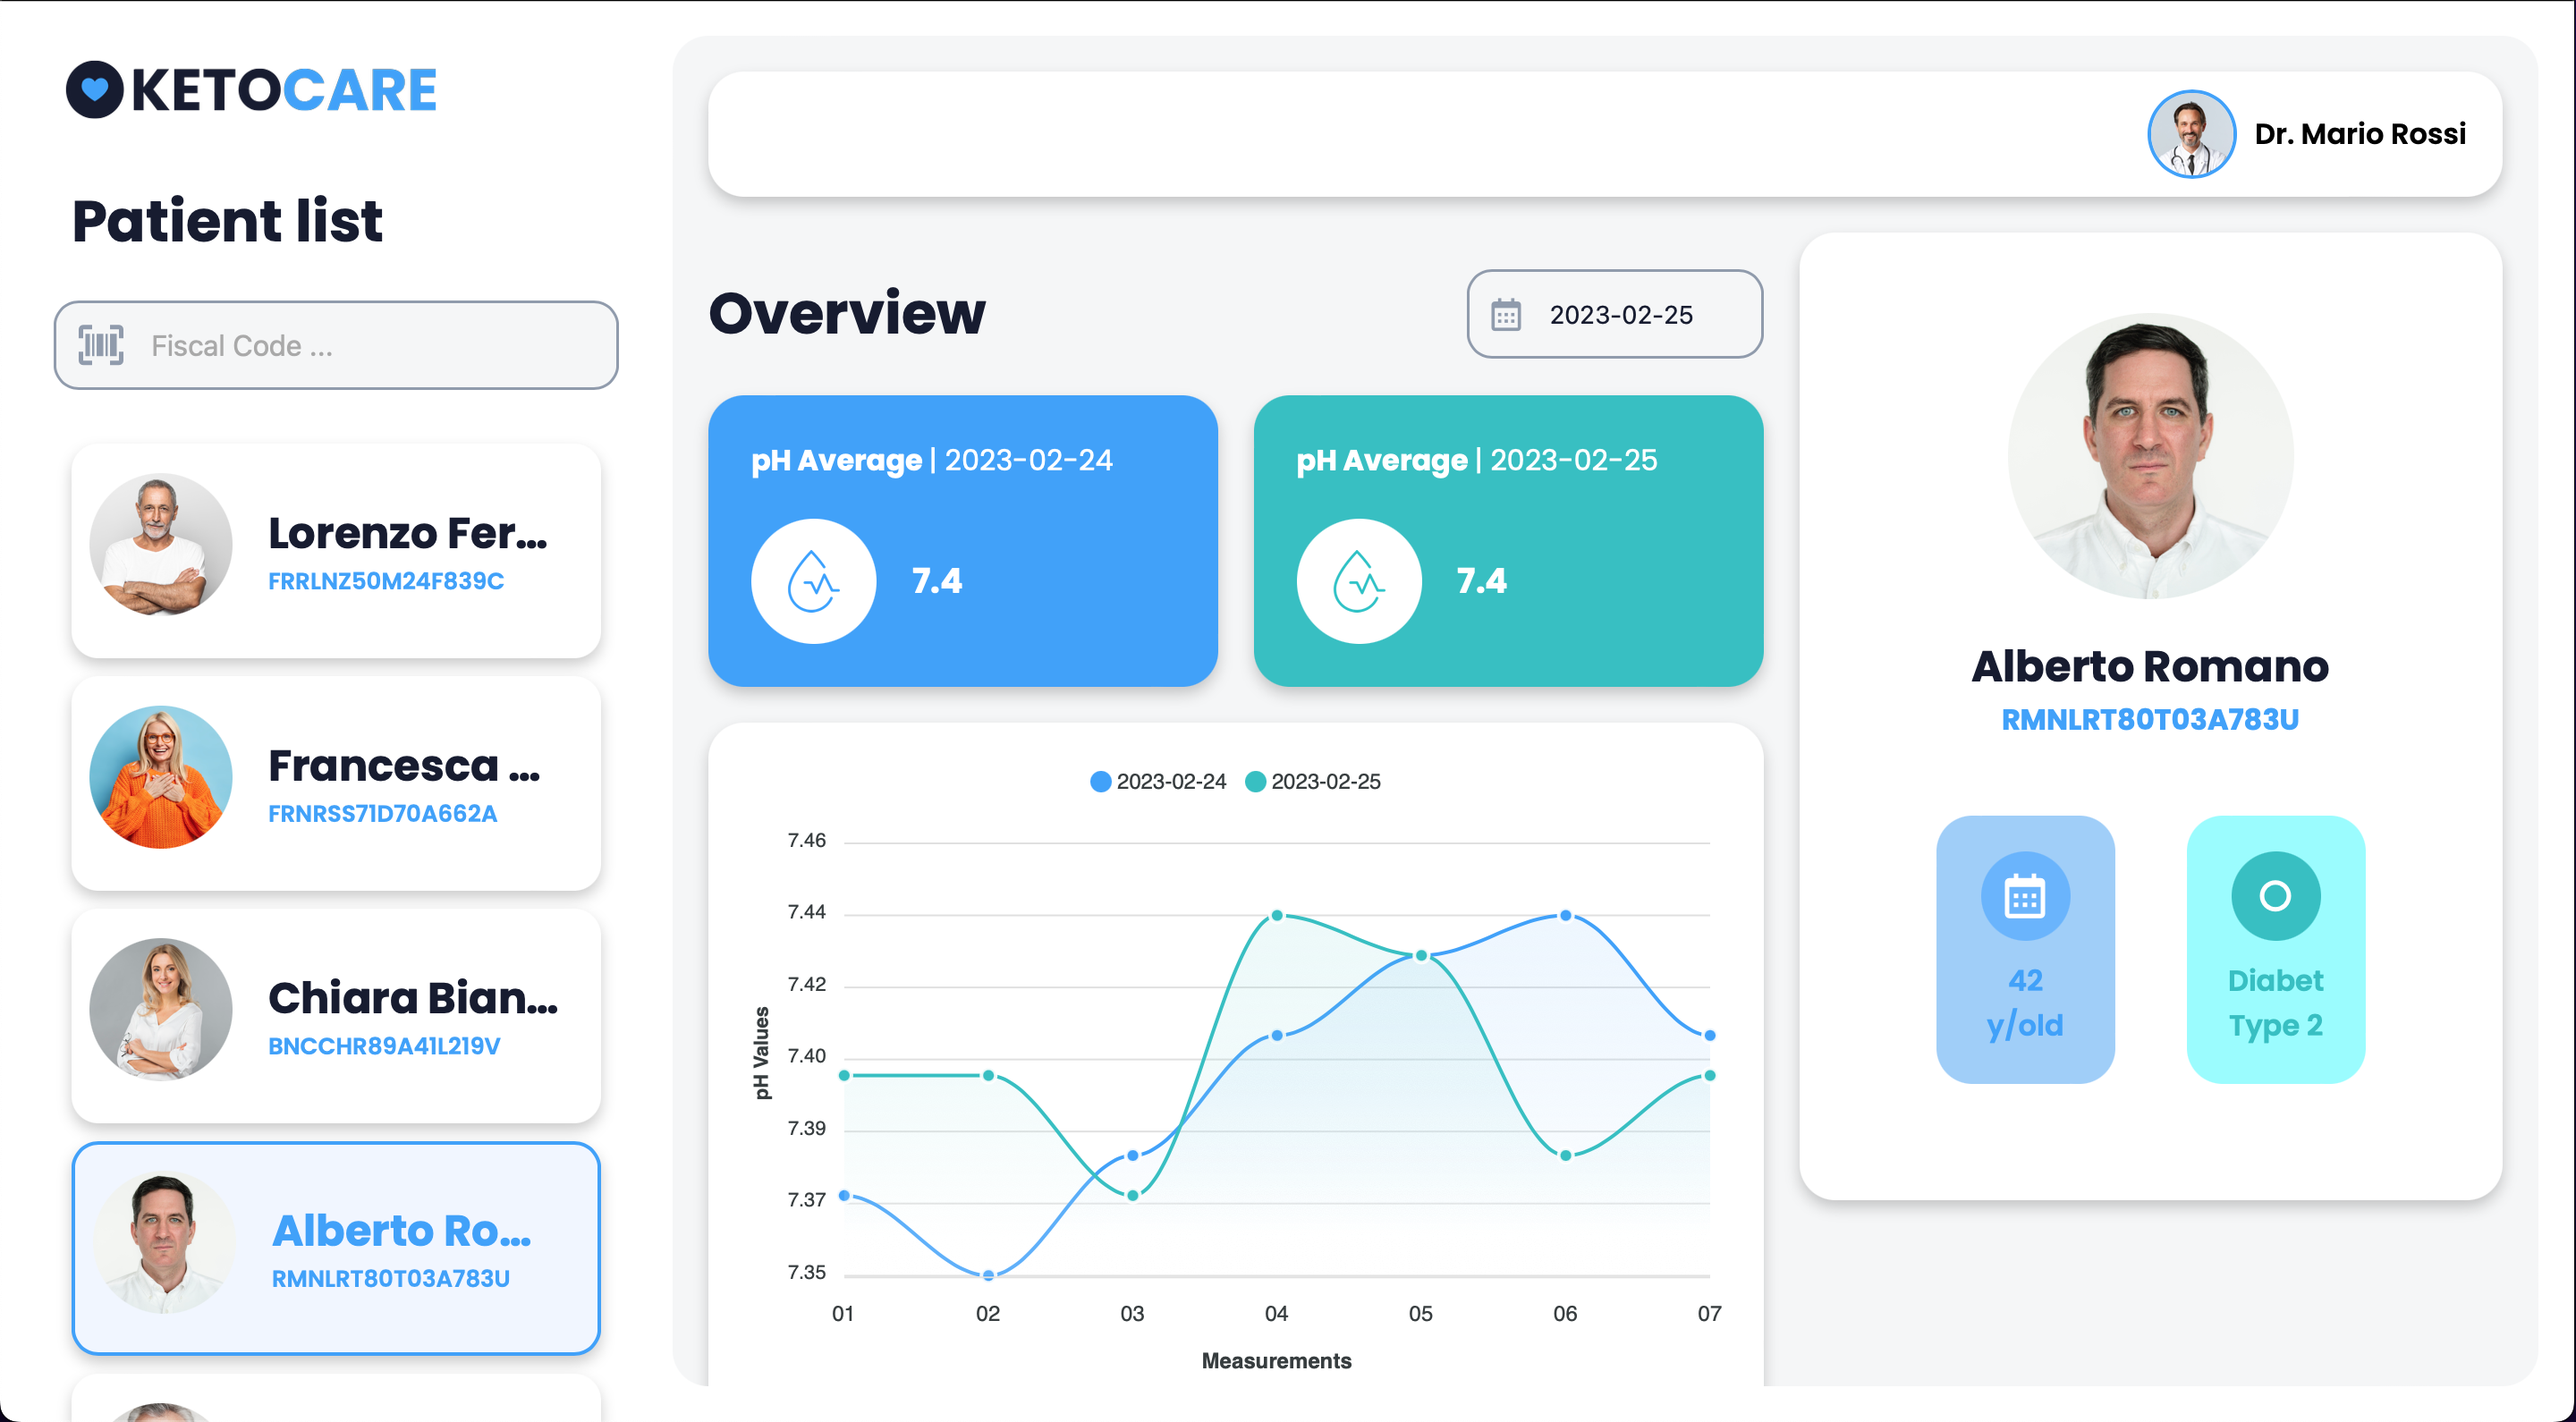
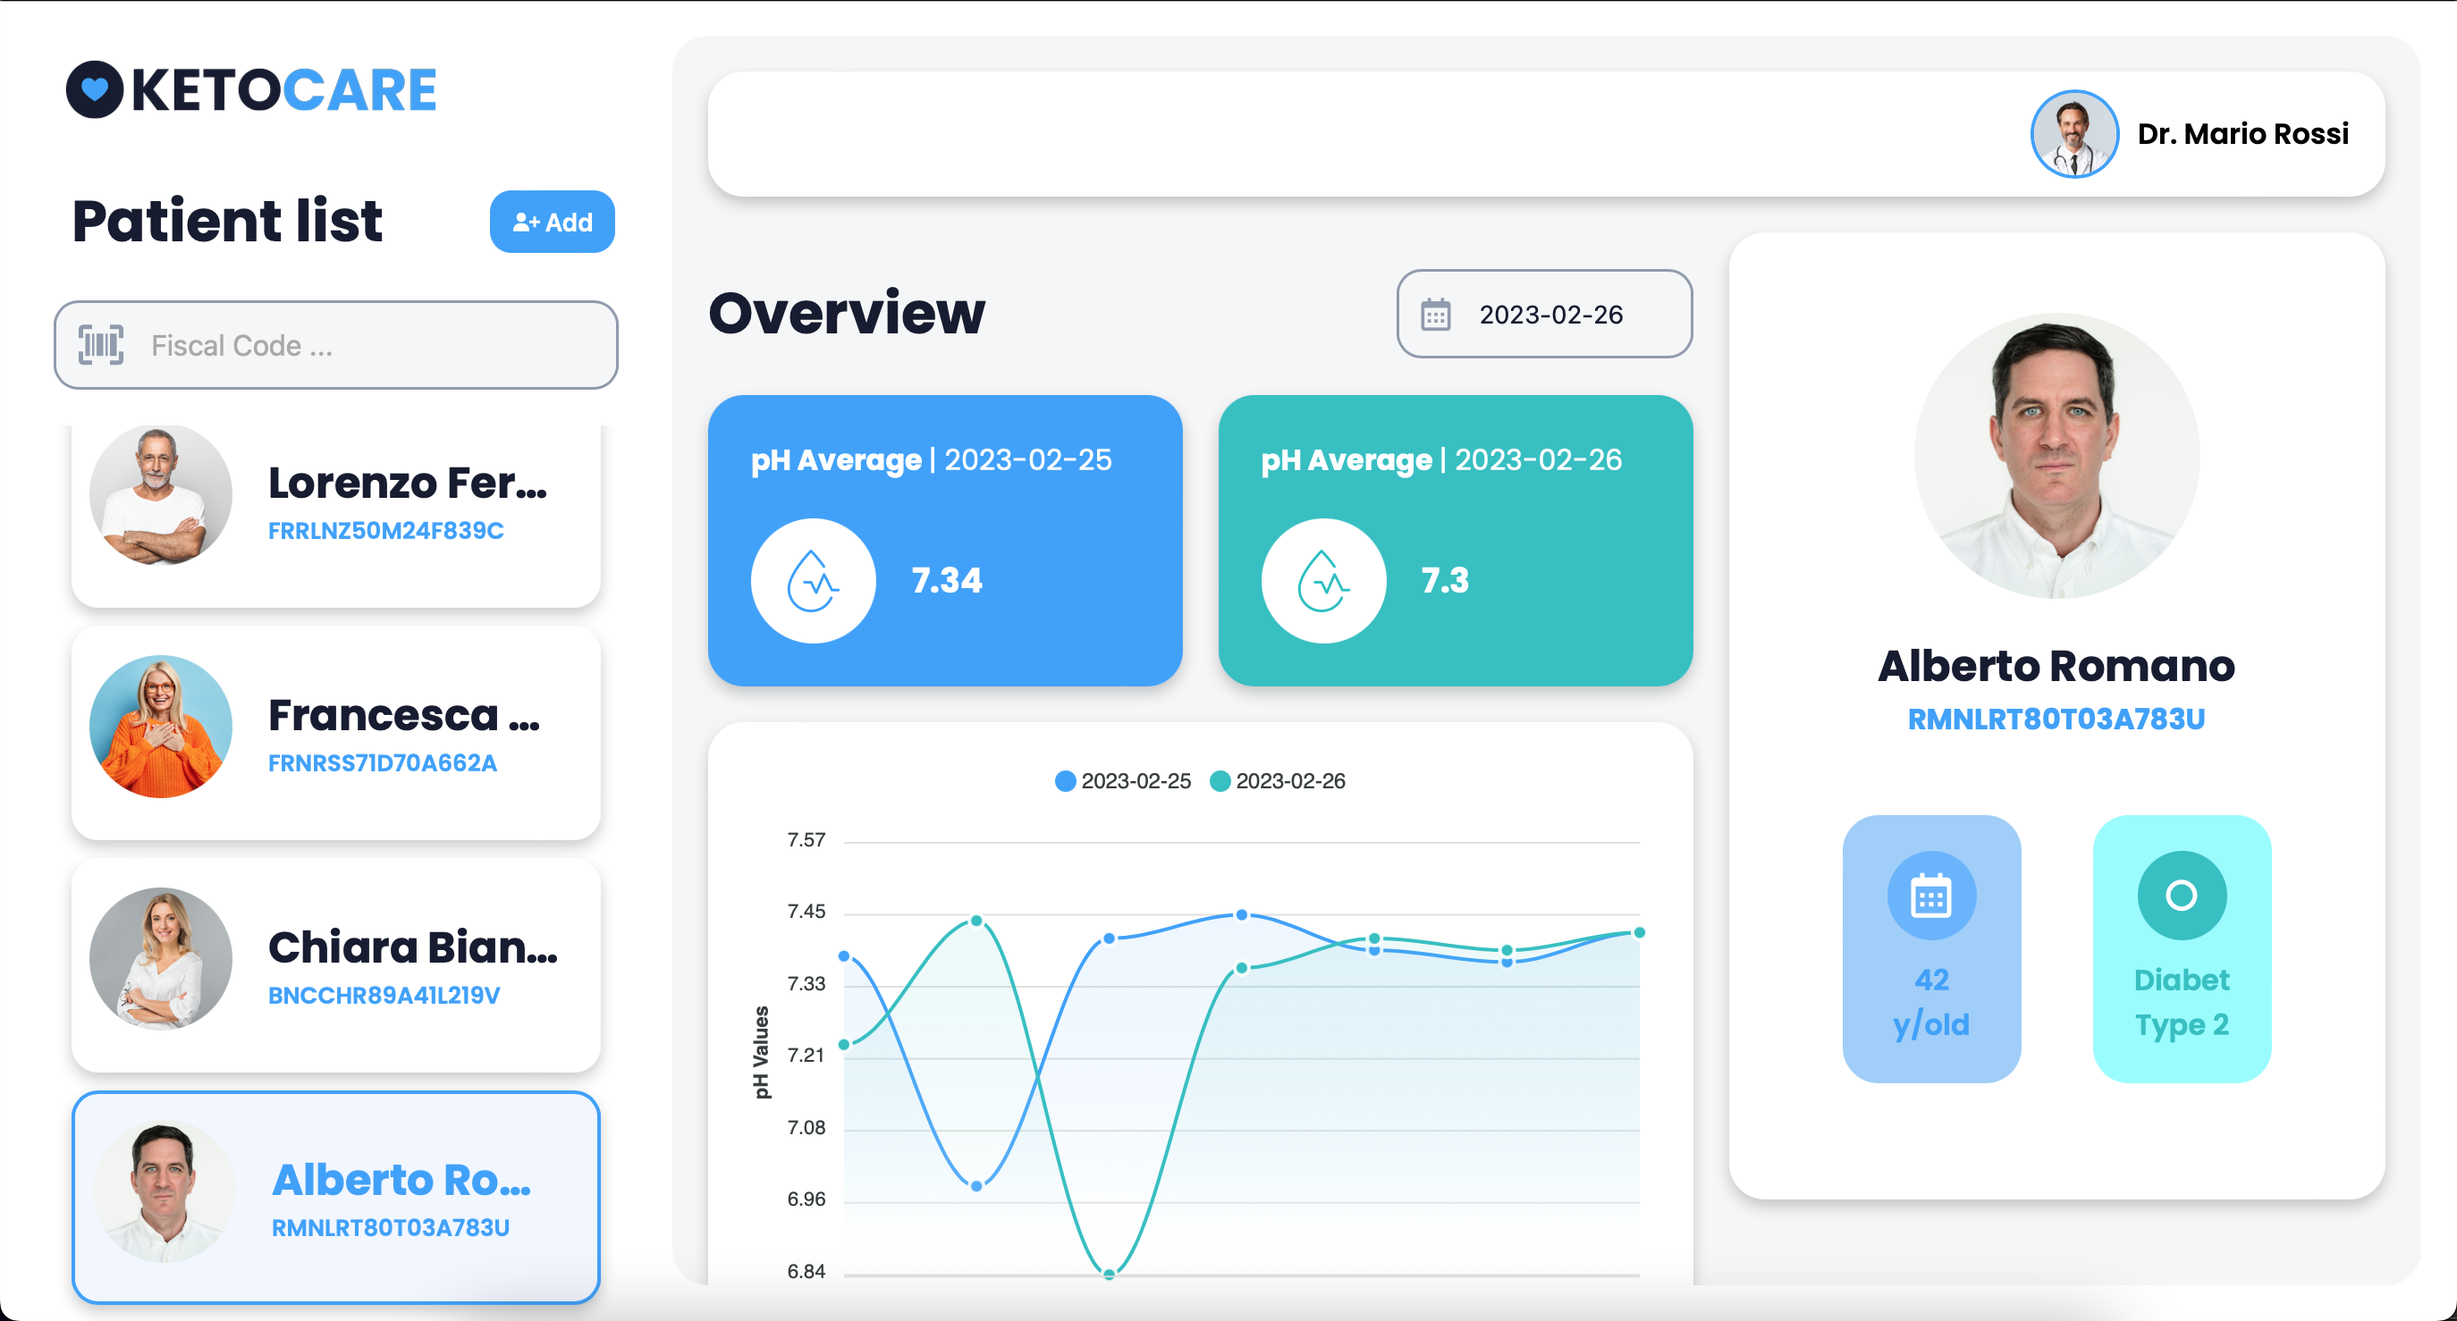
modal new user

diff --git a/KetoCare/index.html b/KetoCare/index.html
@@ -21,11 +21,45 @@
         <div id="logo">
             <img src="./assets/img/logo.png" alt="KetoCare logo">
         </div>
-        <button id="button-close"><i class='bx bx-x' ></i></button>
+        <button id="button-close"><i class='bx bx-x'></i></button>
 
         <div id="list-container">
             <!-- PATIENT LIST -->
-            <h1>Patient list</h1>
+            <div id="title-container">
+                <h1>Patient list</h1>
+                <button id="new-user-button"><i class='bx bxs-user-plus'></i>Add</button>
+
+                <!--MODAL-->
+                <div id="new-user-modal" class="modal">
+                    <div class="modal-content">
+                        <span class="close"><i class='bx bx-x'></i></span>
+                        <form>
+                            <label for="image">Profile image:</label>
+                            <input type="file" id="image" name="image"><br>
+
+                            <label for="name">Name:</label>
+                            <input type="text" id="name" name="name"><br>
+
+                            <label for="surname">Surnname:</label>
+                            <input type="text" id="surname" name="surname"><br>
+
+                            <label for="cf">Fiscal code:</label>
+                            <input type="text" id="cf" name="cf"><br>
+
+                            <label for="date">Date of birth:</label>
+                            <input type="date" id="date-modal" name="date"><br>
+
+                            <label>Diabet Type:</label><br>
+                            <input type="radio" name="diabet-type" value="1">
+                            <label>1</label><br>
+                            <input type="radio" name="diabet-type" value="2">
+                            <label>2</label><br>
+
+                            <input type="submit" value="Confirm">
+                        </form>
+                    </div>
+                </div>
+            </div>
 
             <!-- SEARCH BAR -->
             <div class="search-bar">
@@ -43,7 +77,9 @@
                 </div>
             </div>
             <!-- CARD CONTAINER -->
-            <div id="cards-container"></div>
+            <div id="cards-container">
+                <h5>There are no patients. Add them.</h5>
+            </div>
         </div>
 
     </div>
@@ -51,10 +87,12 @@
     <div id="right-content">
         <div id="bg-right">
             <div id="navbar">
-                <ul> <li>
+                <ul>
+                    <li>
                         <button id="toggle-left-content"><i class='bx bx-menu-alt-left'></i></button>
                     </li>
-                    <li><a><img src="assets/img/doctor_user.jpg" alt="Profile Doctor Image"><span>Dr. Mario Rossi</span></a></li>
+                    <li><a><img src="assets/img/doctor_user.jpg" alt="Profile Doctor Image"><span>Dr. Mario Rossi</span></a>
+                    </li>
                 </ul>
 
             </div>
@@ -217,6 +255,47 @@
             get_measurements(activeCard.id, dateStr)
         }
     });
+</script>
+
+
+<script>
+
+    const modal = document.getElementById("new-user-modal");
+    const btn = document.getElementById("new-user-button");
+    const span = document.querySelector("#new-user-modal .close");
+
+    btn.onclick = function () {
+        modal.style.display = "flex";
+    }
+
+    span.onclick = function () {
+        modal.style.display = "none";
+    }
+
+
+    const form = document.querySelector("#new-user-modal form");
+
+    form.addEventListener("submit", function (event) {
+        event.preventDefault(); // Avoid reloading
+
+        const formData = new FormData(form);
+
+        const jsonData = {
+            name: formData.get('name'),
+            surname: formData.get('surname'),
+            cf: formData.get('cf'),
+            date: formData.get('date-modal'),
+            diabetType: formData.get('diabet-type')
+        };
+
+        console.log(jsonData);
+
+        const modal = document.getElementById("new-user-modal");
+        form.reset();
+        modal.style.display = "none";
+    });
+
+
 </script>
 </body>
 </html>

diff --git a/KetoCare/assets/css/style.css b/KetoCare/assets/css/style.css
@@ -12,6 +12,11 @@
     box-sizing: border-box;
 }
 
+button:hover {
+    box-shadow: 0 8px 16px 0 rgba(0, 0, 0, 0.07), 0 6px 20px 0 rgba(0, 0, 0, 0.07);
+    transition: 0.5s ease-in-out;
+}
+
 body, html {
     height: 100vh;
     width: 100%;
@@ -88,10 +93,80 @@ body, html {
     height: calc(100vh - 100px);
 }
 
-#left-content #list-container h1 {
+#left-content #list-container #title-container {
+    display: flex;
+    flex-direction: row;
+    justify-content: space-between;
+    align-items: center;
+
+}
+
+#left-content #list-container #title-container h1 {
     color: var(--primary-text);
     margin: 0 0 0 10px;
 }
+
+#left-content #list-container #title-container #new-user-button {
+    height: 35px;
+    background: var(--primary-color);
+    border: 0;
+    border-radius: 12px;
+    cursor: pointer;
+    color: #ffffff;
+    display: flex;
+    flex-direction: row;
+    gap: 1px;
+    font-weight: 600;
+    font-size: 14px;
+    align-items: center;
+    padding: 12px;
+
+}
+
+#left-content #list-container #title-container #new-user-button i {
+    font-size: 18px;
+}
+
+
+/* MODAL */
+.modal {
+    display: none;
+    position: fixed;
+    z-index: 1;
+    left: 0;
+    top: 0;
+    width: 100%;
+    height: 100%;
+    overflow: auto;
+    background-color: rgb(0, 0, 0);
+    background-color: rgba(0, 0, 0, 0.4);
+    justify-content: center;
+    align-items: center;
+
+}
+
+.modal-content {
+    background-color: #fefefe;
+    padding: 20px;
+    border: 1px solid #888;
+    width: 80%;
+    height: 80%;
+}
+
+.close {
+    color: #aaa;
+    float: right;
+    font-size: 28px;
+    font-weight: bold;
+}
+
+.close:hover,
+.close:focus {
+    color: black;
+    text-decoration: none;
+    cursor: pointer;
+}
+
 
 /* SEARCH BAR */
 .search-bar {
@@ -167,6 +242,12 @@ body, html {
     height: calc(100% - 138px);
     overflow: auto;
     box-sizing: border-box;
+    text-align: center;
+}
+
+#left-content #list-container #cards-container h5 {
+    color: var(--secondary-text);
+    font-weight: 400;
 }
 
 /* CARD STYLE */
@@ -301,11 +382,11 @@ body, html {
 #right-content #bg-right .container {
     margin-top: 20px;
     padding-right: 20px;
-    display: grid;
     grid-template-columns: 60% 40%;
     grid-template-rows: auto;
     gap: 20px;
     margin-bottom: 20px;
+    display: none;
 }
 
 .col-a {

diff --git a/KetoCare/assets/js/script.js b/KetoCare/assets/js/script.js
@@ -19,8 +19,14 @@ fetch('http://localhost:5000/patients', {
         return response.json();
     })
     .then(data => {
-        cardsData = data;
-        create_cards()
+        if(data.length > 0){
+            cardsData = data;
+            document.querySelector("#cards-container h5").style.display = "none";
+            document.querySelector("#left-content #list-container #cards-container").style.textAlign = "left";
+            document.querySelector("#right-content #bg-right .container").style.display = "grid";
+            create_cards()
+        }
+
     })
     .catch(error => {
         console.log(`Error: ${error.message}`);
